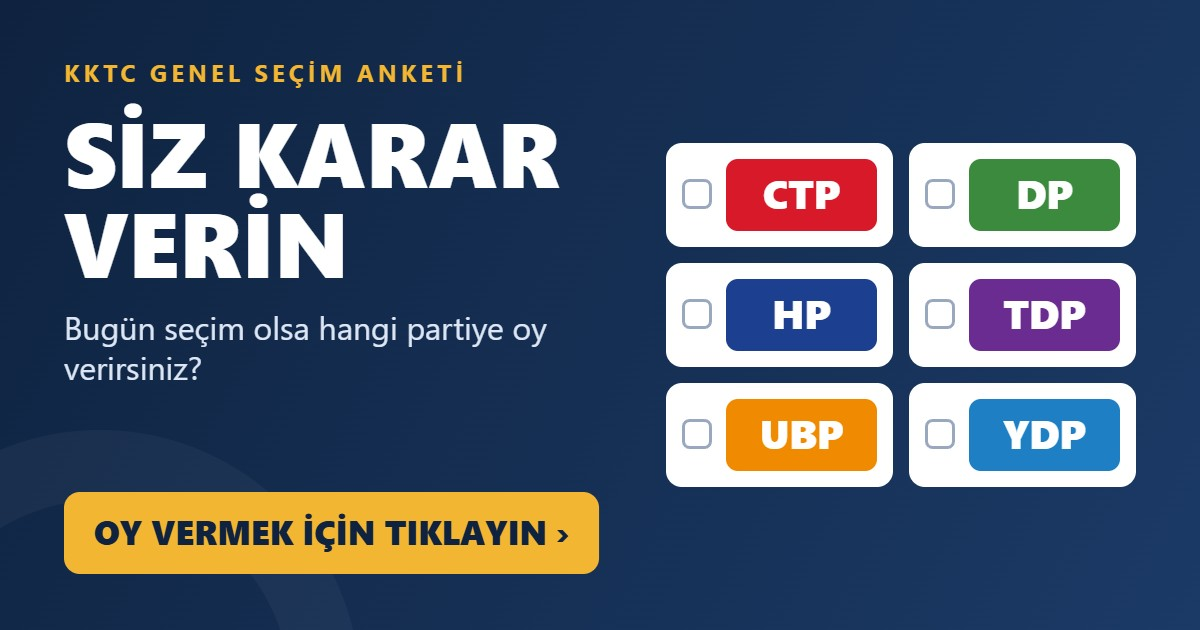
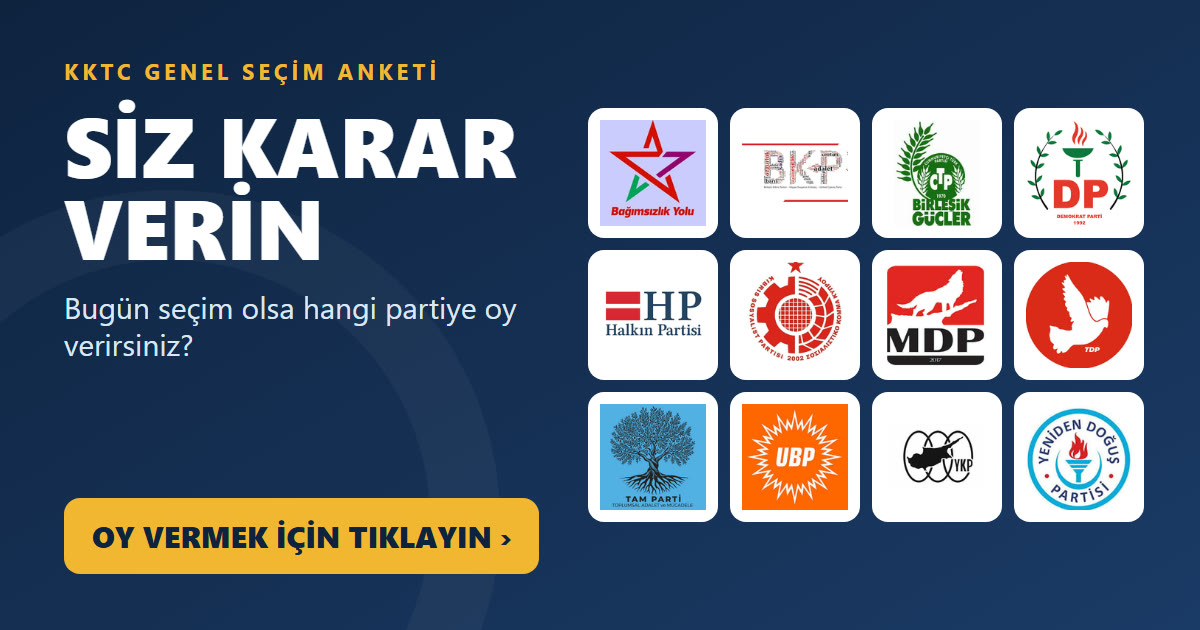
Add files via upload

diff --git a/index.html b/index.html
@@ -41,7 +41,7 @@
   .status b { color: var(--ink); font-variant-numeric: tabular-nums; }
 
   .list { display: flex; flex-direction: column; gap: 10px; }
-  .opt { position: relative; overflow: hidden; display: grid; grid-template-columns: 22px 58px 1fr auto; align-items: center; gap: 12px;
+  .opt { position: relative; overflow: hidden; display: grid; grid-template-columns: 22px 52px 1fr auto; align-items: center; gap: 12px;
          width: 100%; min-height: 64px; padding: 10px 14px; text-align: left; font: inherit; color: inherit;
          background: #fff; border: 2px solid var(--line); border-radius: 14px; cursor: pointer; transition: border-color .15s, transform .1s; }
   .opt:hover:not(:disabled) { border-color: var(--navy); }
@@ -53,9 +53,12 @@
   .box { position: relative; width: 22px; height: 22px; border: 2px solid #9aa8bf; border-radius: 6px; display: grid; place-items: center; background: #fff; }
   .opt.secili .box { background: var(--ok); border-color: var(--ok); }
   .opt.secili .box::after { content: ""; width: 6px; height: 11px; border: solid #fff; border-width: 0 3px 3px 0; transform: translateY(-1px) rotate(45deg); }
-  .chip { position: relative; height: 34px; border-radius: 8px; display: grid; place-items: center; font-weight: 900; font-size: 16px; color: #fff; background: var(--c); letter-spacing: .02em; }
-  .diger .chip { background: #fff; color: var(--muted); border: 2px dashed #b7c2d4; font-size: 12px; }
+  .chip { position: relative; height: 52px; border-radius: 8px; display: grid; place-items: center; font-weight: 900; font-size: 16px; color: #fff; background: var(--c); letter-spacing: .02em; }
+  .diger .chip { background: #fff; color: var(--muted); border: 2px dashed #b7c2d4; font-size: 20px; }
   .name { position: relative; min-width: 0; font-weight: 700; font-size: 15px; line-height: 1.2; }
+  .name small { display: block; font-size: 12px; font-weight: 600; color: var(--muted); letter-spacing: .04em; margin-top: 2px; }
+  .name small:empty { display: none; }
+  .logo { position: relative; width: 52px; height: 52px; border-radius: 10px; object-fit: contain; background: #fff; border: 1px solid var(--line); }
   .stat { position: relative; text-align: right; font-variant-numeric: tabular-nums; white-space: nowrap; }
   .yuzde { display: block; font-size: 20px; font-weight: 900; }
   .sayi { display: block; font-size: 12px; color: var(--muted); }
@@ -74,7 +77,8 @@
   .toast.on { opacity: 1; transform: translate(-50%, 0); }
 
   @media (max-width: 420px) {
-    .opt { grid-template-columns: 22px 52px 1fr auto; gap: 10px; padding: 10px 12px; }
+    .opt { grid-template-columns: 22px 46px 1fr auto; gap: 10px; padding: 10px 12px; }
+    .logo, .chip { width: 46px; height: 46px; }
     .name { font-size: 14px; }
   }
   @media (prefers-reduced-motion: reduce) { .bar, .opt, .toast { transition: none; } }
@@ -106,13 +110,20 @@
 
 <script>
 const PARTILER = [
+  { id: "BY", ad: "Bağımsızlık Yolu", renk: "#0f766e" },
+  { id: "BKP", ad: "Birleşik Kıbrıs Partisi", renk: "#a21caf" },
   { id: "CTP", ad: "Cumhuriyetçi Türk Partisi", renk: "#d7192a" },
   { id: "DP", ad: "Demokrat Parti", renk: "#3b8a3e" },
   { id: "HP", ad: "Halkın Partisi", renk: "#1d3f8f" },
+  { id: "KSP", ad: "Kıbrıs Sosyalist Partisi", renk: "#9f1239" },
+  { id: "MDP", ad: "Milliyetçi Demokrasi Partisi", renk: "#78350f" },
   { id: "TDP", ad: "Toplumcu Demokrasi Partisi", renk: "#6a2c91" },
+  { id: "TAM", ad: "Toplumsal Adalet ve Mücadele Partisi", renk: "#4d7c0f" },
   { id: "UBP", ad: "Ulusal Birlik Partisi", renk: "#f08a00" },
+  { id: "YKP", ad: "Yeni Kıbrıs Partisi", renk: "#db2777" },
   { id: "YDP", ad: "Yeniden Doğuş Partisi", renk: "#1f7fc4" },
-  { id: "DIGER", ad: "Kararsızım / Başka parti", renk: "#8a96ab", kisa: "DİĞER" }
+  { id: "KARARSIZ", ad: "Kararsızım", renk: "#8a96ab", kisa: "?", ozel: true },
+  { id: "BOYKOT", ad: "Boykot ediyorum / Oy kullanmayacağım", renk: "#5b6b85", kisa: "✕", ozel: true }
 ];
 const OY_ANAHTARI = "kktc_anket_oy_v1";
 
@@ -139,14 +150,16 @@ const satirlar = {};
 PARTILER.forEach(p => {
   const b = document.createElement("button");
   b.type = "button";
-  b.className = "opt" + (p.id === "DIGER" ? " diger" : "");
+  b.className = "opt" + (p.ozel ? " diger" : "");
   b.id = "oy-" + p.id;
   b.style.setProperty("--c", p.renk);
   b.innerHTML = '<span class="bar"></span><span class="box"></span>' +
-    '<span class="chip"></span><span class="name"></span>' +
+    (p.ozel ? '<span class="chip"></span>' : '<img class="logo" alt="" src="logo-' + p.id + '.png">') +
+    '<span class="name"><span class="ad"></span><small></small></span>' +
     '<span class="stat"><span class="yuzde">%0,0</span><span class="sayi">0 oy</span></span>';
-  b.querySelector(".chip").textContent = p.kisa || p.id;
-  b.querySelector(".name").textContent = p.ad;
+  if (p.ozel) b.querySelector(".chip").textContent = p.kisa;
+  b.querySelector(".ad").textContent = p.ad;
+  b.querySelector("small").textContent = p.ozel ? "" : p.id;
   b.addEventListener("click", () => oyVer(p.id));
   liste.appendChild(b);
   satirlar[p.id] = b;
@@ -208,7 +221,7 @@ async function oyVer(id) {
 
 function sonucMetni() {
   const sirali = [...PARTILER].sort((a, b) => (sayilar[b.id] || 0) - (sayilar[a.id] || 0));
-  const satir = sirali.map((p, i) => (i + 1) + ". " + (p.kisa || p.id) + " – " + yuzdeYazi(yuzde(p.id)) + " (" + (sayilar[p.id] || 0).toLocaleString("tr-TR") + " oy)");
+  const satir = sirali.map((p, i) => (i + 1) + ". " + (p.ozel ? p.ad : p.id) + " – " + yuzdeYazi(yuzde(p.id)) + " (" + (sayilar[p.id] || 0).toLocaleString("tr-TR") + " oy)");
   return ["🗳 KKTC Genel Seçim Anketi – Güncel Sonuçlar",
           "Toplam " + toplamOy().toLocaleString("tr-TR") + " oy", "", ...satir, "",
           "Sen de oy ver: " + (anketAdresi || location.href),
